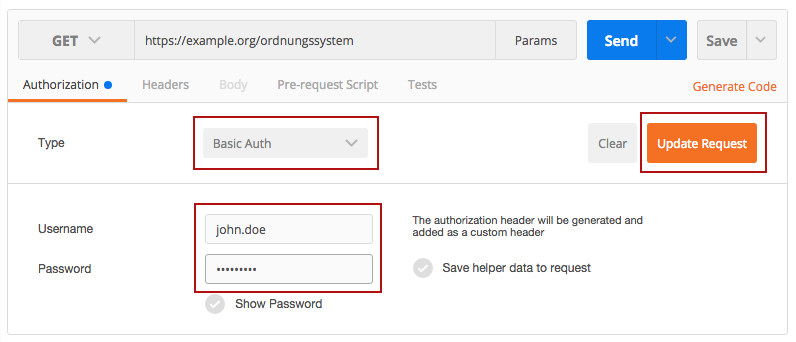
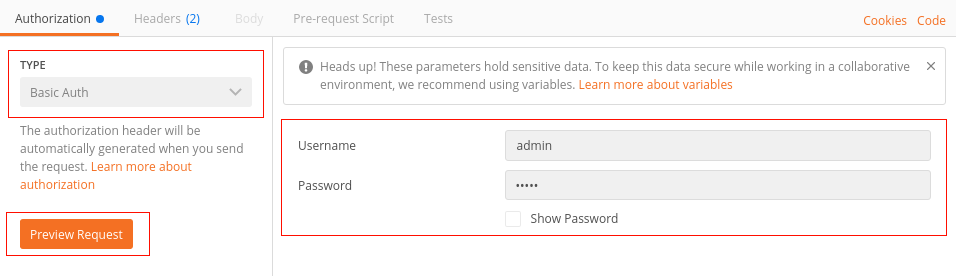
Update documentation for using Postman

diff --git a/docs/source/exploring.rst b/docs/source/exploring.rst
@@ -3,7 +3,11 @@
 Explore the API using Postman
 =============================
 
-To discover the API interactively, the Chrome-Extension Postman_ is a suitable solution.
+To discover the API interactively, the Postman_ is recommended.
+
+.. admonition:: Note
+
+    The Chrome-Extension version of Postman is deprecated and it is recommended to use the native apps available instead.
 
 Configuration
 -------------
@@ -45,7 +49,7 @@ You have to select
 * in the drop-down menu :menuselection:`Basic Auth ->` the term :term:`Basic Auth` as the authentication method
 * A valid existing user with appropriate permissions 
 
-After providing these parameters you can create the resulting :term:`Authorization Header` and insert it into the prepared request by clicking on :guilabel:`Update Request`.
+After providing these parameters you can create the resulting :term:`Authorization Header` and insert it into the prepared request by clicking on :guilabel:`Preview Request`.
 
 |postman-basic-auth|
 
@@ -59,6 +63,9 @@ Under the  :guilabel:`Headers` tab you now need to insert in the :term:`Accept H
 The request is now ready and can be send by clicking on :guilabel:`Send` button.
 
 The :term:`Response` of the server is now displayed below the :term:`Request`. You can easily follow the links on the ``@id`` attributes by clicking on them. For every link Postman_ has prepared another request sharing the same headers that can be send again by licking on the  :guilabel:`Send` button.
+
+|postman-response|
+
 
 .. admonition:: Conclusion
 
@@ -78,3 +85,4 @@ The :term:`Response` of the server is now displayed below the :term:`Request`. Y
 .. |postman-request| image:: ./_static/img/postman_request.png
 .. |postman-basic-auth| image:: ./_static/img/postman_basic_auth.png
 .. |postman-headers| image:: ./_static/img/postman_headers.png
+.. |postman-response| image:: ./_static/img/postman_response.png
